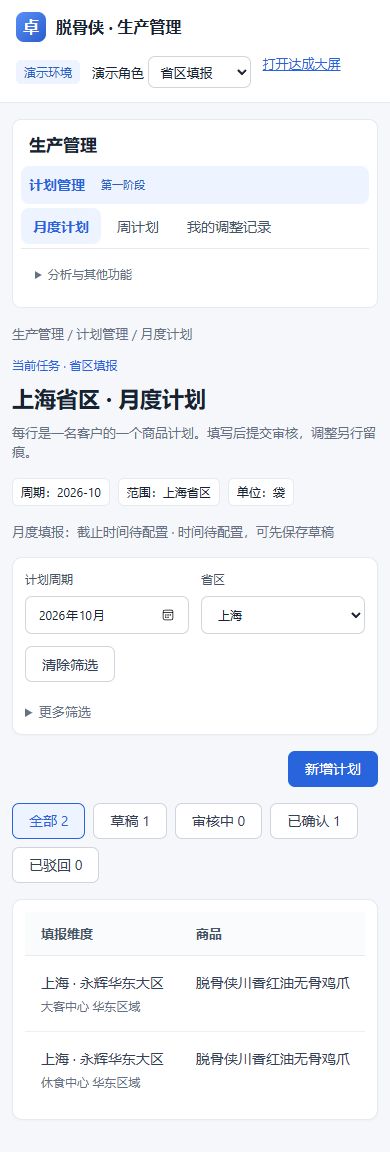
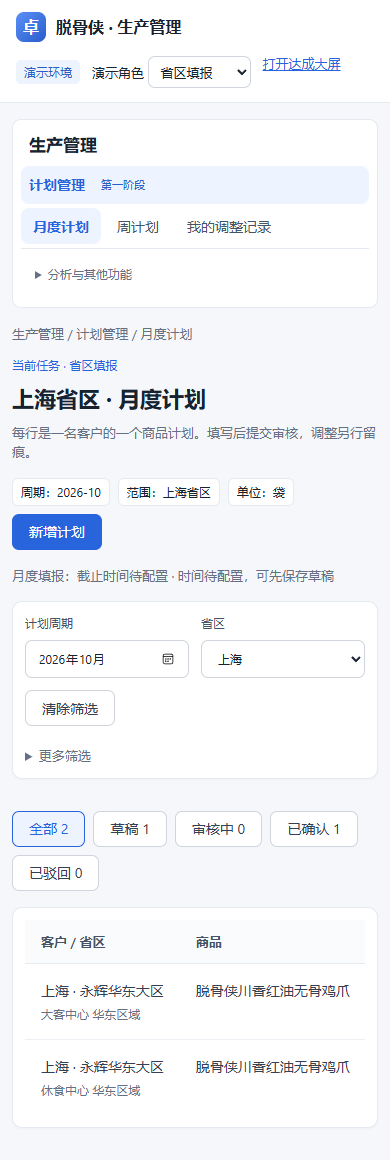
Auto sync 2026-10-12 11:37:48

diff --git a/09-设计与原型/销售计划管理/任务视角页面说明.md b/09-设计与原型/销售计划管理/任务视角页面说明.md
@@ -1,0 +1,13 @@
+# 按任务组织页面
+
+省区填报默认进入所选省区月度计划（初始演示上海），可选择省区及周期；月周仍是独立入口。列表首屏只保留客户省区、商品、计划数量、状态和操作，原单号、版本、订单完成数据在详情或分析查看。草稿、审核中、已确认和驳回可独立筛选。
+
+切换大区、中心、严总角色分别进入省区商品审核、大区商品审核、中心确认。下级通过才进入上级，默认只看待本级审核，详情逐层下钻。
+
+计划部门进入数量调整审核，默认只看待我处理；填报者查看自己的调整记录。商品和规则管理角色分别进入各自维护任务。
+
+页首固定说明当前角色、任务、周期、组织范围和单位；分析与其他功能折叠到导航次级入口，首屏移除重复演示说明、阶段横幅、达成指标及重复填报卡片。演示标识收敛到顶栏。
+
+权限仍为前端演示范围选择，正式系统需按登录人员组织权限限定省区，不将演示角色当真实授权。
+
+回归通过：分级计划汇总、普通数量调整、320–2560px左右适配。表单输入在窗口重新聚焦时保留。
